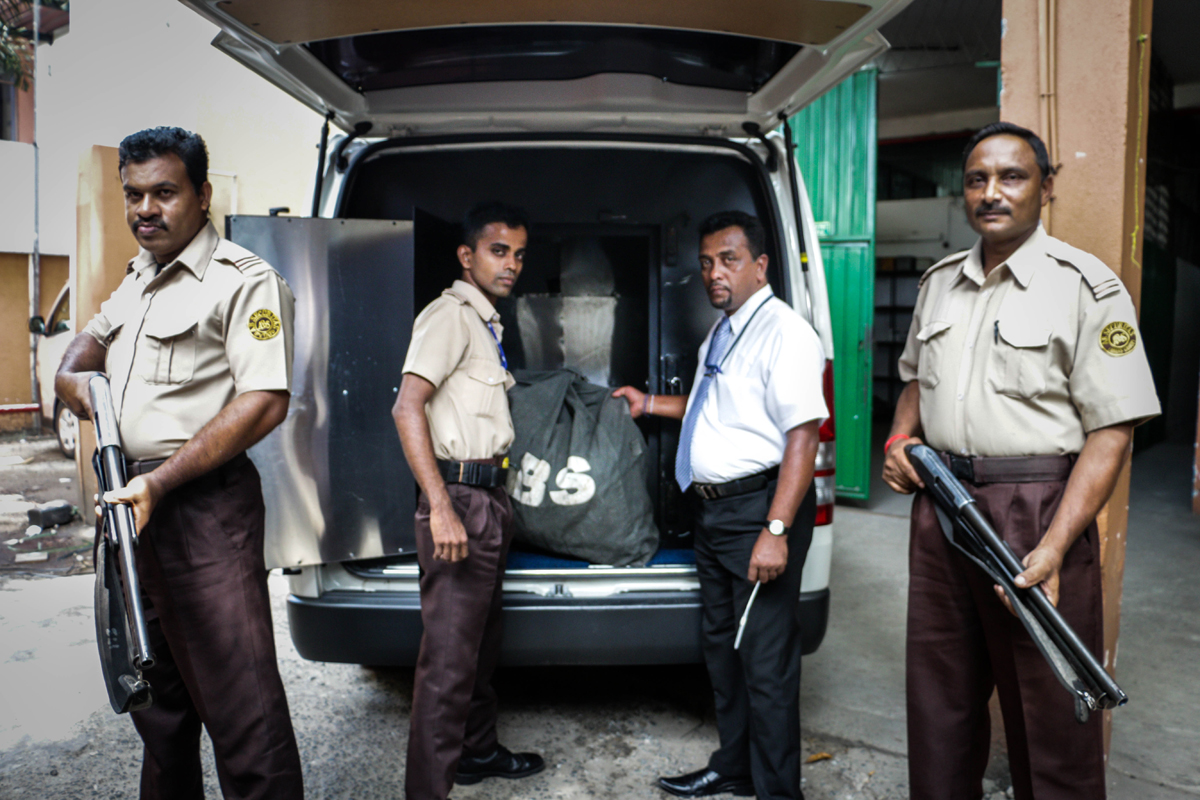
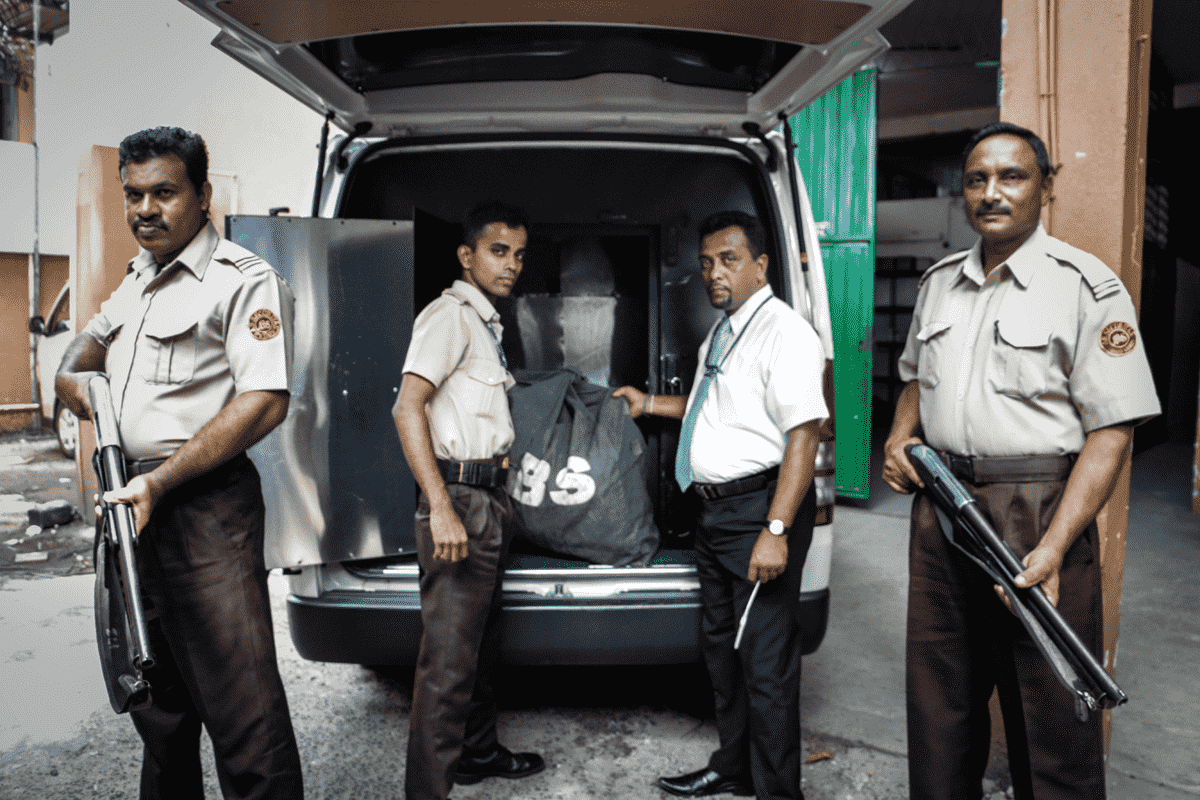
email address updated & image size reduced

diff --git a/index.html b/index.html
@@ -447,9 +447,9 @@
                     <div class="contact-icon">
                         <i class="fas fa-envelope"></i>
                     </div>
-                    <a href="mailto:" style="text-align: center;font-weight: bolder;">info@rrlsecurities.co.in</a>
+                    <a href="mailto:" style="text-align: center;font-weight: bolder;">info@rrlsecurity.com</a>
                     <br><br>
-                    <a href="mailto:" style="text-align: center; font-weight: bolder;">hr@rrlsecurities.co.in</a>
+                    <a href="mailto:" style="text-align: center; font-weight: bolder;">hr@rrlrrlsecurity.com</a>
                 </div>
             </div>
         </div>
